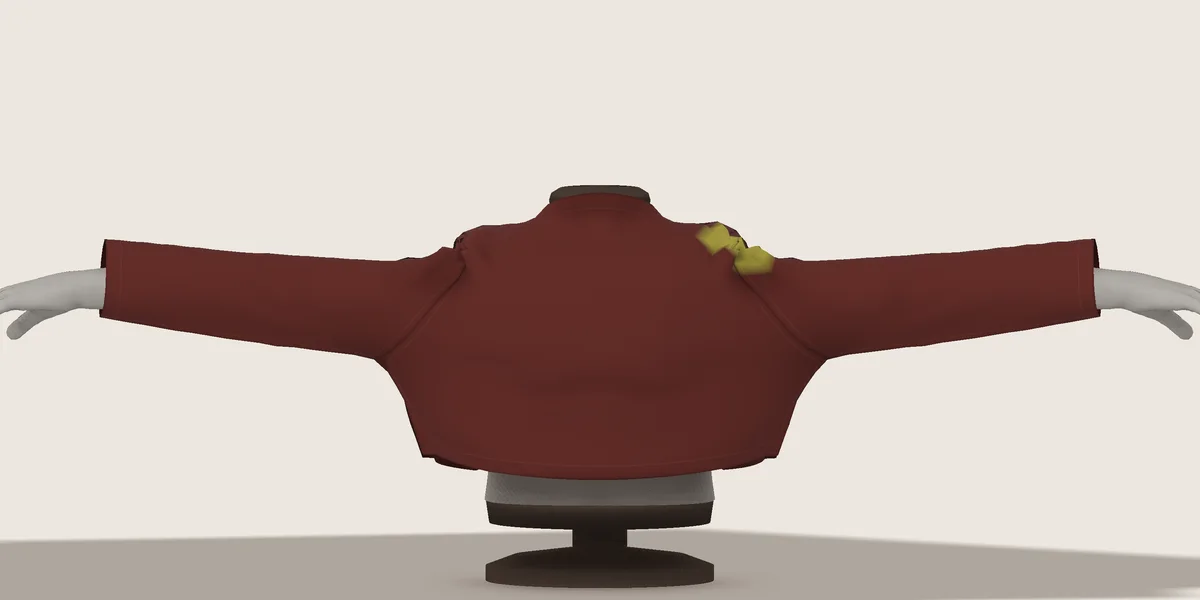
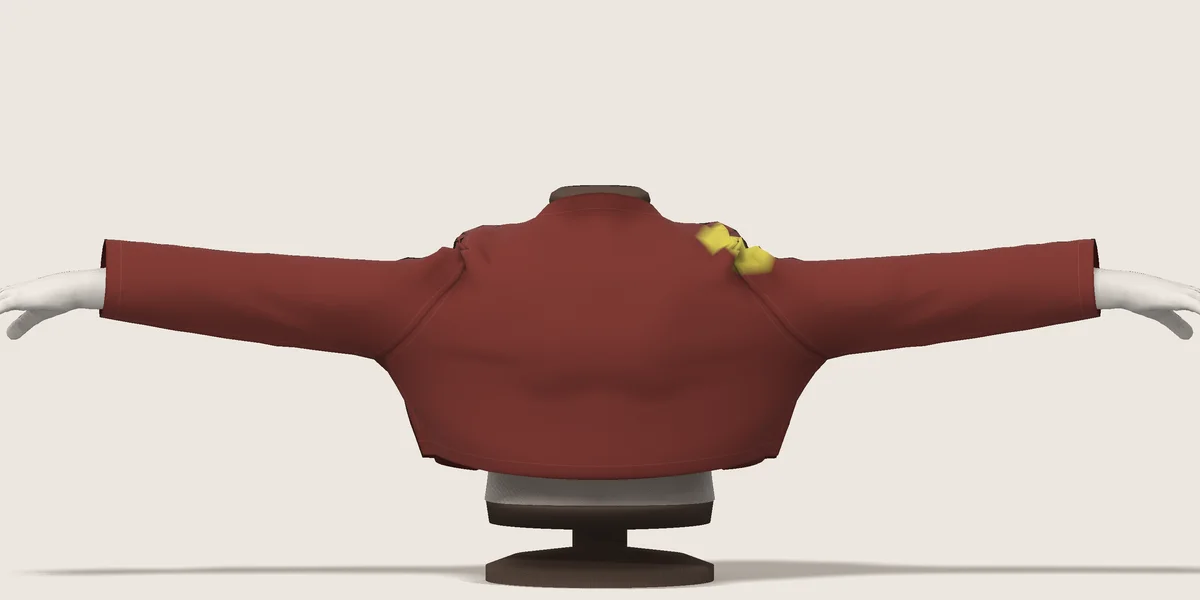
fix(film): read the shadow pass's positions at the right stride
The optional per-vertex sewing detail made Surface's depth array skip a computed number of bytes per
vertex, and the count was wrong: a vertex is 11 floats (13 with the detail), so the shadow pass must
skip 32 (40) bytes after the position, not 28 (36). The shadow map was built from misread positions:
the whole scene came out darker and the floor shadow a hard band. The skip is now taken from the vertex
array's own width. The two raised-arm pictures on How it works were drawn with the bug and are drawn
again.

Changed region(s): [[0.0, 0.87, 1.0, 1.0], [0.0, 0.3, 1.0, 0.57], [0.4317, 0.81, 0.4625, 0.84]]

diff --git a/showcase/scripts/render-native-film.py b/showcase/scripts/render-native-film.py
@@ -169,8 +169,9 @@ class Surface:
         layout = ("3f 3f 2f 3f 2f", "position", "normal", "uv", "colour", "detail") if detail is not None \
             else ("3f 3f 2f 3f", "position", "normal", "uv", "colour")
         self.vao = ctx.vertex_array(program, [(self.buffer, *layout)], self.indices)
-        stride = (12 if detail is not None else 10) * 4 - 12
-        self.depth = (ctx.vertex_array(depth_shader, [(self.buffer, f"3f {stride}x", "position")], self.indices)
+        # The depth pass reads only the position: skip the other 8 floats (10 with the detail) of a vertex.
+        skip = self.vertices.shape[1] * 4 - 12
+        self.depth = (ctx.vertex_array(depth_shader, [(self.buffer, f"3f {skip}x", "position")], self.indices)
                       if depth_shader is not None else None)
         self.update(positions)
 
